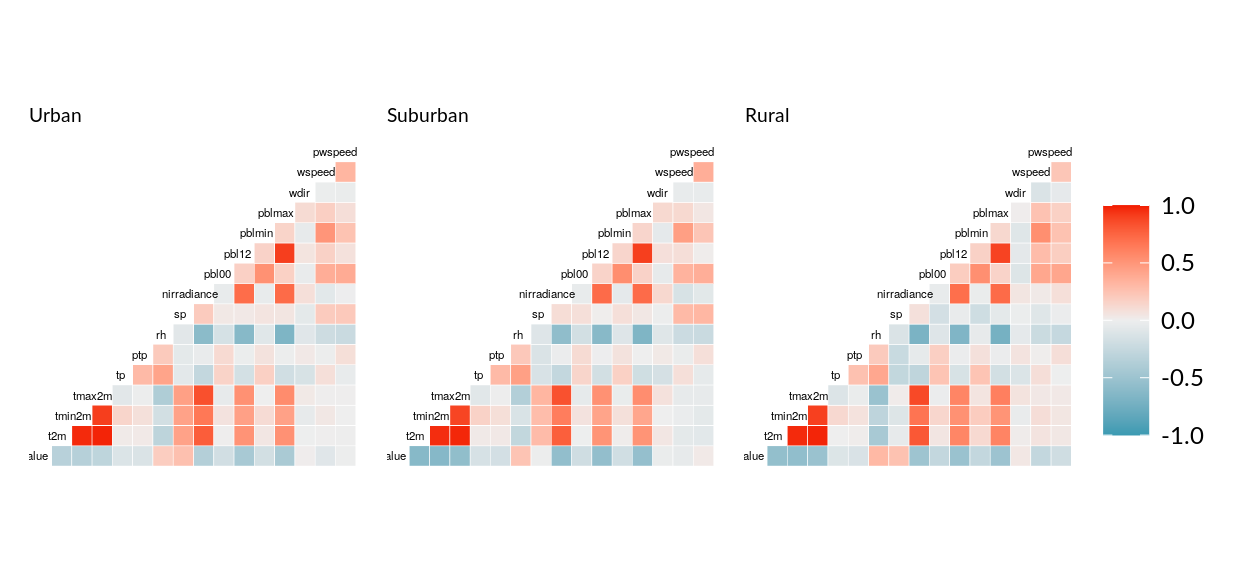
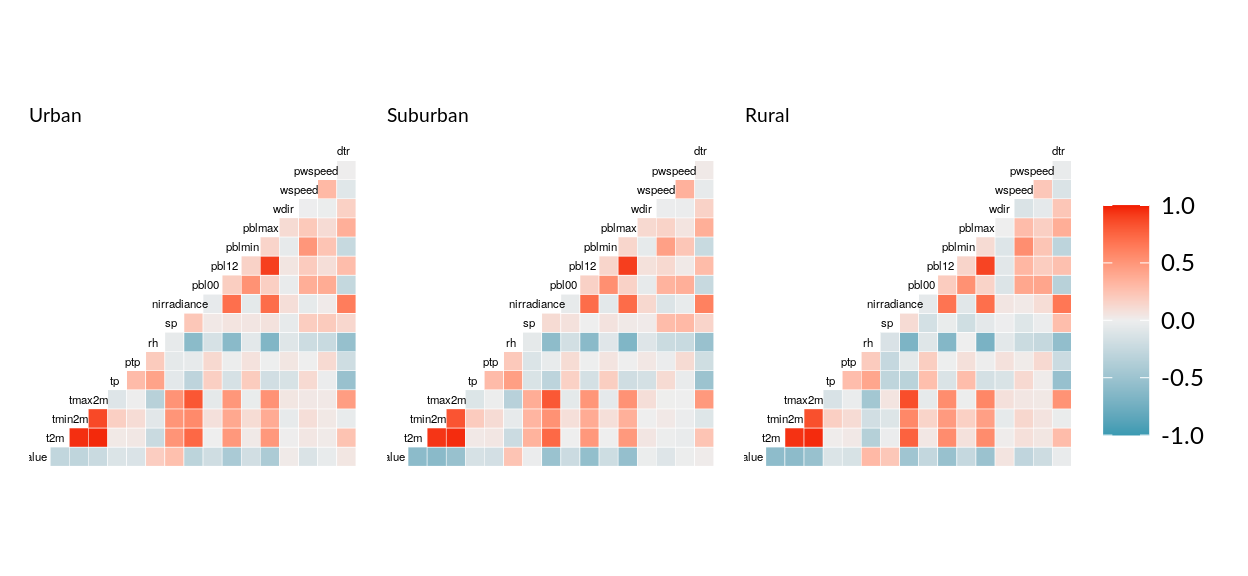
Aggiunto dtr in analisi meteo vs pm10/no2

Changed region(s): [[0.0312, 0.25, 0.875, 0.8125]]

diff --git a/docs/posts/2021-02-15-analisi-pm10-vs-variabili-meteo/index.html b/docs/posts/2021-02-15-analisi-pm10-vs-variabili-meteo/index.html
@@ -88,7 +88,7 @@ code span.wa { color: #5e5e5e; font-style: italic; } /* Warning */
   <!--radix_placeholder_meta_tags-->
 <title>pulvinla: Analisi PM10 vs variabili meteo</title>
 
-<meta property="description" itemprop="description" content="Studio di correlazioni e scatterplots tra PM10 e le variabili meteo derivate da ERA5.&#10;Per i parametri metereologici fare riferimento a https://progettopulvirus.github.io/pulviruS/parametri.html"/>
+<meta property="description" itemprop="description" content="Studio di correlazioni e scatterplots tra NO2 e le variabili meteo derivate da ERA5.&#10;Per i parametri metereologici fare riferimento a https://progettopulvirus.github.io/pulviruS/parametri.html"/>
 
 
 <!--  https://schema.org/Article -->
@@ -99,20 +99,20 @@ code span.wa { color: #5e5e5e; font-style: italic; } /* Warning */
 <!--  https://developers.facebook.com/docs/sharing/webmasters#markup -->
 <meta property="og:title" content="pulvinla: Analisi PM10 vs variabili meteo"/>
 <meta property="og:type" content="article"/>
-<meta property="og:description" content="Studio di correlazioni e scatterplots tra PM10 e le variabili meteo derivate da ERA5.&#10;Per i parametri metereologici fare riferimento a https://progettopulvirus.github.io/pulviruS/parametri.html"/>
+<meta property="og:description" content="Studio di correlazioni e scatterplots tra NO2 e le variabili meteo derivate da ERA5.&#10;Per i parametri metereologici fare riferimento a https://progettopulvirus.github.io/pulviruS/parametri.html"/>
 <meta property="og:locale" content="en_US"/>
 <meta property="og:site_name" content="pulvinla"/>
 
 <!--  https://dev.twitter.com/cards/types/summary -->
 <meta property="twitter:card" content="summary"/>
 <meta property="twitter:title" content="pulvinla: Analisi PM10 vs variabili meteo"/>
-<meta property="twitter:description" content="Studio di correlazioni e scatterplots tra PM10 e le variabili meteo derivate da ERA5.&#10;Per i parametri metereologici fare riferimento a https://progettopulvirus.github.io/pulviruS/parametri.html"/>
+<meta property="twitter:description" content="Studio di correlazioni e scatterplots tra NO2 e le variabili meteo derivate da ERA5.&#10;Per i parametri metereologici fare riferimento a https://progettopulvirus.github.io/pulviruS/parametri.html"/>
 
 <!--/radix_placeholder_meta_tags-->
   <!--radix_placeholder_rmarkdown_metadata-->
 
 <script type="text/json" id="radix-rmarkdown-metadata">
-{"type":"list","attributes":{"names":{"type":"character","attributes":{},"value":["title","description","author","date","params","output"]}},"value":[{"type":"character","attributes":{},"value":["Analisi PM10 vs variabili meteo"]},{"type":"character","attributes":{},"value":["Studio di correlazioni e scatterplots tra PM10 e le variabili meteo derivate da ERA5.\nPer i parametri metereologici fare riferimento a https://progettopulvirus.github.io/pulviruS/parametri.html"]},{"type":"list","attributes":{},"value":[{"type":"list","attributes":{"names":{"type":"character","attributes":{},"value":["name"]}},"value":[{"type":"character","attributes":{},"value":["Maria Gabriella Villani"]}]}]},{"type":"character","attributes":{},"value":["02-15-2021"]},{"type":"list","attributes":{"names":{"type":"character","attributes":{},"value":["parametro","regione"]}},"value":[{"type":"character","attributes":{},"value":["pm10"]},{"type":"character","attributes":{},"value":["Lombardia"]}]},{"type":"list","attributes":{"names":{"type":"character","attributes":{},"value":["distill::distill_article"]}},"value":[{"type":"list","attributes":{"names":{"type":"character","attributes":{},"value":["self_contained"]}},"value":[{"type":"logical","attributes":{},"value":[false]}]}]}]}
+{"type":"list","attributes":{"names":{"type":"character","attributes":{},"value":["title","description","author","date","params","output"]}},"value":[{"type":"character","attributes":{},"value":["Analisi PM10 vs variabili meteo"]},{"type":"character","attributes":{},"value":["Studio di correlazioni e scatterplots tra NO2 e le variabili meteo derivate da ERA5.\nPer i parametri metereologici fare riferimento a https://progettopulvirus.github.io/pulviruS/parametri.html"]},{"type":"list","attributes":{},"value":[{"type":"list","attributes":{"names":{"type":"character","attributes":{},"value":["name"]}},"value":[{"type":"character","attributes":{},"value":["Maria Gabriella Villani"]}]}]},{"type":"character","attributes":{},"value":["02-15-2021"]},{"type":"list","attributes":{"names":{"type":"character","attributes":{},"value":["parametro","regione"]}},"value":[{"type":"character","attributes":{},"value":["pm10"]},{"type":"character","attributes":{},"value":["Lombardia"]}]},{"type":"list","attributes":{"names":{"type":"character","attributes":{},"value":["distill::distill_article"]}},"value":[{"type":"list","attributes":{"names":{"type":"character","attributes":{},"value":["self_contained"]}},"value":[{"type":"logical","attributes":{},"value":[false]}]}]}]}
 </script>
 <!--/radix_placeholder_rmarkdown_metadata-->
   
@@ -2062,7 +2062,7 @@ document.addEventListener('DOMContentLoaded', function() {
 <!--radix_placeholder_front_matter-->
 
 <script id="distill-front-matter" type="text/json">
-{"title":"Analisi PM10 vs variabili meteo","description":"Studio di correlazioni e scatterplots tra PM10 e le variabili meteo derivate da ERA5.\nPer i parametri metereologici fare riferimento a https://progettopulvirus.github.io/pulviruS/parametri.html","authors":[{"author":"Maria Gabriella Villani","authorURL":"#","affiliation":"&nbsp;","affiliationURL":"#","orcidID":""}],"publishedDate":"2021-02-15T00:00:00.000+01:00","citationText":"Villani, 2021"}
+{"title":"Analisi PM10 vs variabili meteo","description":"Studio di correlazioni e scatterplots tra NO2 e le variabili meteo derivate da ERA5.\nPer i parametri metereologici fare riferimento a https://progettopulvirus.github.io/pulviruS/parametri.html","authors":[{"author":"Maria Gabriella Villani","authorURL":"#","affiliation":"&nbsp;","affiliationURL":"#","orcidID":""}],"publishedDate":"2021-02-15T00:00:00.000+01:00","citationText":"Villani, 2021"}
 </script>
 
 <!--/radix_placeholder_front_matter-->
@@ -2088,7 +2088,7 @@ document.addEventListener('DOMContentLoaded', function() {
 <h1>Analisi PM10 vs variabili meteo</h1>
 <!--radix_placeholder_categories-->
 <!--/radix_placeholder_categories-->
-<p><p>Studio di correlazioni e scatterplots tra PM10 e le variabili meteo derivate da ERA5. Per i parametri metereologici fare riferimento a <a href="https://progettopulvirus.github.io/pulviruS/parametri.html" class="uri">https://progettopulvirus.github.io/pulviruS/parametri.html</a></p></p>
+<p><p>Studio di correlazioni e scatterplots tra NO2 e le variabili meteo derivate da ERA5. Per i parametri metereologici fare riferimento a <a href="https://progettopulvirus.github.io/pulviruS/parametri.html" class="uri">https://progettopulvirus.github.io/pulviruS/parametri.html</a></p></p>
 </div>
 
 <div class="d-byline">
@@ -2099,6 +2099,9 @@ document.addEventListener('DOMContentLoaded', function() {
 </div>
 
 <div class="d-article">
+<div class="layout-chunk" data-layout="l-page">
+
+</div>
 <p>Numero stazioni: 49</p>
 <h1 id="correlatione-variabili-meteo-vs-pm10">Correlatione variabili meteo vs pm10</h1>
 <div class="layout-chunk" data-layout="l-page">

diff --git a/md/_posts/2021-02-15-analisi-pm10-vs-variabili-meteo/analisi-pm10-vs-variabili-meteo.html b/md/_posts/2021-02-15-analisi-pm10-vs-variabili-meteo/analisi-pm10-vs-variabili-meteo.html
@@ -88,7 +88,7 @@ code span.wa { color: #5e5e5e; font-style: italic; } /* Warning */
   <!--radix_placeholder_meta_tags-->
   <title>Analisi PM10 vs variabili meteo</title>
 
-  <meta property="description" itemprop="description" content="Studio di correlazioni e scatterplots tra PM10 e le variabili meteo derivate da ERA5.&#10;Per i parametri metereologici fare riferimento a https://progettopulvirus.github.io/pulviruS/parametri.html"/>
+  <meta property="description" itemprop="description" content="Studio di correlazioni e scatterplots tra NO2 e le variabili meteo derivate da ERA5.&#10;Per i parametri metereologici fare riferimento a https://progettopulvirus.github.io/pulviruS/parametri.html"/>
 
 
   <!--  https://schema.org/Article -->
@@ -99,19 +99,19 @@ code span.wa { color: #5e5e5e; font-style: italic; } /* Warning */
   <!--  https://developers.facebook.com/docs/sharing/webmasters#markup -->
   <meta property="og:title" content="Analisi PM10 vs variabili meteo"/>
   <meta property="og:type" content="article"/>
-  <meta property="og:description" content="Studio di correlazioni e scatterplots tra PM10 e le variabili meteo derivate da ERA5.&#10;Per i parametri metereologici fare riferimento a https://progettopulvirus.github.io/pulviruS/parametri.html"/>
+  <meta property="og:description" content="Studio di correlazioni e scatterplots tra NO2 e le variabili meteo derivate da ERA5.&#10;Per i parametri metereologici fare riferimento a https://progettopulvirus.github.io/pulviruS/parametri.html"/>
   <meta property="og:locale" content="en_US"/>
 
   <!--  https://dev.twitter.com/cards/types/summary -->
   <meta property="twitter:card" content="summary"/>
   <meta property="twitter:title" content="Analisi PM10 vs variabili meteo"/>
-  <meta property="twitter:description" content="Studio di correlazioni e scatterplots tra PM10 e le variabili meteo derivate da ERA5.&#10;Per i parametri metereologici fare riferimento a https://progettopulvirus.github.io/pulviruS/parametri.html"/>
+  <meta property="twitter:description" content="Studio di correlazioni e scatterplots tra NO2 e le variabili meteo derivate da ERA5.&#10;Per i parametri metereologici fare riferimento a https://progettopulvirus.github.io/pulviruS/parametri.html"/>
 
   <!--/radix_placeholder_meta_tags-->
   <!--radix_placeholder_rmarkdown_metadata-->
 
   <script type="text/json" id="radix-rmarkdown-metadata">
-  {"type":"list","attributes":{"names":{"type":"character","attributes":{},"value":["title","description","author","date","params","output"]}},"value":[{"type":"character","attributes":{},"value":["Analisi PM10 vs variabili meteo"]},{"type":"character","attributes":{},"value":["Studio di correlazioni e scatterplots tra PM10 e le variabili meteo derivate da ERA5.\nPer i parametri metereologici fare riferimento a https://progettopulvirus.github.io/pulviruS/parametri.html\n"]},{"type":"list","attributes":{},"value":[{"type":"list","attributes":{"names":{"type":"character","attributes":{},"value":["name"]}},"value":[{"type":"character","attributes":{},"value":["Maria Gabriella Villani"]}]}]},{"type":"character","attributes":{},"value":["02-15-2021"]},{"type":"list","attributes":{"names":{"type":"character","attributes":{},"value":["parametro","regione"]}},"value":[{"type":"character","attributes":{},"value":["pm10"]},{"type":"character","attributes":{},"value":["Lombardia"]}]},{"type":"list","attributes":{"names":{"type":"character","attributes":{},"value":["distill::distill_article"]}},"value":[{"type":"list","attributes":{"names":{"type":"character","attributes":{},"value":["self_contained"]}},"value":[{"type":"logical","attributes":{},"value":[false]}]}]}]}
+  {"type":"list","attributes":{"names":{"type":"character","attributes":{},"value":["title","description","author","date","params","output"]}},"value":[{"type":"character","attributes":{},"value":["Analisi PM10 vs variabili meteo"]},{"type":"character","attributes":{},"value":["Studio di correlazioni e scatterplots tra NO2 e le variabili meteo derivate da ERA5.\nPer i parametri metereologici fare riferimento a https://progettopulvirus.github.io/pulviruS/parametri.html\n"]},{"type":"list","attributes":{},"value":[{"type":"list","attributes":{"names":{"type":"character","attributes":{},"value":["name"]}},"value":[{"type":"character","attributes":{},"value":["Maria Gabriella Villani"]}]}]},{"type":"character","attributes":{},"value":["02-15-2021"]},{"type":"list","attributes":{"names":{"type":"character","attributes":{},"value":["parametro","regione"]}},"value":[{"type":"character","attributes":{},"value":["pm10"]},{"type":"character","attributes":{},"value":["Lombardia"]}]},{"type":"list","attributes":{"names":{"type":"character","attributes":{},"value":["distill::distill_article"]}},"value":[{"type":"list","attributes":{"names":{"type":"character","attributes":{},"value":["self_contained"]}},"value":[{"type":"logical","attributes":{},"value":[false]}]}]}]}
   </script>
   <!--/radix_placeholder_rmarkdown_metadata-->
   
@@ -1455,7 +1455,7 @@ code span.wa { color: #5e5e5e; font-style: italic; } /* Warning */
 <!--radix_placeholder_front_matter-->
 
 <script id="distill-front-matter" type="text/json">
-{"title":"Analisi PM10 vs variabili meteo","description":"Studio di correlazioni e scatterplots tra PM10 e le variabili meteo derivate da ERA5.\nPer i parametri metereologici fare riferimento a https://progettopulvirus.github.io/pulviruS/parametri.html","authors":[{"author":"Maria Gabriella Villani","authorURL":"#","affiliation":"&nbsp;","affiliationURL":"#","orcidID":""}],"publishedDate":"2021-02-15T00:00:00.000+01:00","citationText":"Villani, 2021"}
+{"title":"Analisi PM10 vs variabili meteo","description":"Studio di correlazioni e scatterplots tra NO2 e le variabili meteo derivate da ERA5.\nPer i parametri metereologici fare riferimento a https://progettopulvirus.github.io/pulviruS/parametri.html","authors":[{"author":"Maria Gabriella Villani","authorURL":"#","affiliation":"&nbsp;","affiliationURL":"#","orcidID":""}],"publishedDate":"2021-02-15T00:00:00.000+01:00","citationText":"Villani, 2021"}
 </script>
 
 <!--/radix_placeholder_front_matter-->
@@ -1468,7 +1468,7 @@ code span.wa { color: #5e5e5e; font-style: italic; } /* Warning */
 <h1>Analisi PM10 vs variabili meteo</h1>
 <!--radix_placeholder_categories-->
 <!--/radix_placeholder_categories-->
-<p><p>Studio di correlazioni e scatterplots tra PM10 e le variabili meteo derivate da ERA5. Per i parametri metereologici fare riferimento a <a href="https://progettopulvirus.github.io/pulviruS/parametri.html" class="uri">https://progettopulvirus.github.io/pulviruS/parametri.html</a></p></p>
+<p><p>Studio di correlazioni e scatterplots tra NO2 e le variabili meteo derivate da ERA5. Per i parametri metereologici fare riferimento a <a href="https://progettopulvirus.github.io/pulviruS/parametri.html" class="uri">https://progettopulvirus.github.io/pulviruS/parametri.html</a></p></p>
 </div>
 
 <div class="d-byline">
@@ -1479,6 +1479,9 @@ code span.wa { color: #5e5e5e; font-style: italic; } /* Warning */
 </div>
 
 <div class="d-article">
+<div class="layout-chunk" data-layout="l-page">
+
+</div>
 <p>Numero stazioni: 49</p>
 <h1 id="correlatione-variabili-meteo-vs-pm10">Correlatione variabili meteo vs pm10</h1>
 <div class="layout-chunk" data-layout="l-page">

diff --git a/docs/index.html b/docs/index.html
@@ -2439,7 +2439,7 @@ Per i parametri metereologici fare riferimento a https://progettopulvirus.github
 <div class="description">
 <h2>Analisi PM10 vs variabili meteo</h2>
 <div class="dt-tags"></div>
-<p>Studio di correlazioni e scatterplots tra PM10 e le variabili meteo derivate da ERA5.
+<p>Studio di correlazioni e scatterplots tra NO2 e le variabili meteo derivate da ERA5.
 Per i parametri metereologici fare riferimento a https://progettopulvirus.github.io/pulviruS/parametri.html</p>
 </div>
 </a>

diff --git a/md/_posts/2021-02-15-analisi-no2-vs-variabili-meteo/analisi-no2-vs-variabili-meteo.html b/md/_posts/2021-02-15-analisi-no2-vs-variabili-meteo/analisi-no2-vs-variabili-meteo.html
@@ -1479,6 +1479,9 @@ code span.wa { color: #5e5e5e; font-style: italic; } /* Warning */
 </div>
 
 <div class="d-article">
+<div class="layout-chunk" data-layout="l-page">
+
+</div>
 <p>Numero stazioni: 47</p>
 <h1 id="correlatione-variabili-meteo-vs-no2">Correlatione variabili meteo vs no2</h1>
 <div class="layout-chunk" data-layout="l-page">

diff --git a/docs/posts/2021-02-15-analisi-no2-vs-variabili-meteo/index.html b/docs/posts/2021-02-15-analisi-no2-vs-variabili-meteo/index.html
@@ -2099,6 +2099,9 @@ document.addEventListener('DOMContentLoaded', function() {
 </div>
 
 <div class="d-article">
+<div class="layout-chunk" data-layout="l-page">
+
+</div>
 <p>Numero stazioni: 47</p>
 <h1 id="correlatione-variabili-meteo-vs-no2">Correlatione variabili meteo vs no2</h1>
 <div class="layout-chunk" data-layout="l-page">
